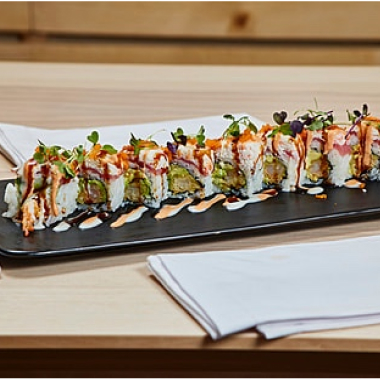
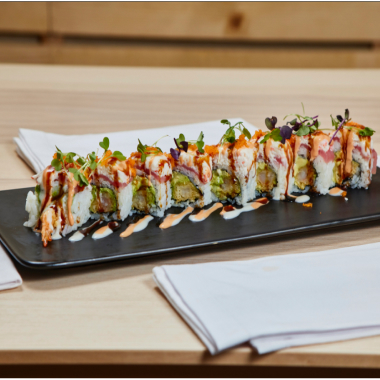
homemenu image updated

diff --git a/components/home/SectionMenu.jsx b/components/home/SectionMenu.jsx
@@ -16,7 +16,7 @@ export default function SectionMenu() {
         bgcolor: '#FAF6E8',
       }}
     >
-      <Container sx={{ mt: 4}}>
+      <Container sx={{ mt: 8 }}>
         <Typography textAlign="center" color="secondary.main">
           FAST & TASTY
         </Typography>
@@ -56,7 +56,7 @@ export default function SectionMenu() {
         </ImageList>
         {/*<Grid item lg={7} md={7} sm={9} xs={12} align="center">
          */}
-        <Grid align="center" pb={10}>
+        <Grid align="center" pt = {7} pb={7}>
           <Button>
             <MuiNextLink
               sx={{ textDecoration: 'none', color: 'common.white' }}

diff --git a/data/homemenu.js b/data/homemenu.js
@@ -1,7 +1,7 @@
 export const section1 = [{
     id: 1,
     name: 'Shrimp Tempura Chef Special Roll',
-    img: '/home_page/roll0.svg',
+    img: '/home_page/roll0.jpg',
     type: 'Special Rolls'
 },
 {
@@ -13,13 +13,13 @@ export const section1 = [{
 {
     id: 3,
     name: 'Flaming Hot Chef Special Roll',
-    img: '/home_page/roll2.svg',
+    img: '/home_page/roll2.jpg',
     type: 'Special Rolls'
 },
 {
     id: 4,
     name: 'Crispy Rice SpicyTuna',
-    img: '/home_page/roll3.svg',
+    img: '/home_page/roll3.jpg',
     type: 'Special Rolls'
 },
 {
